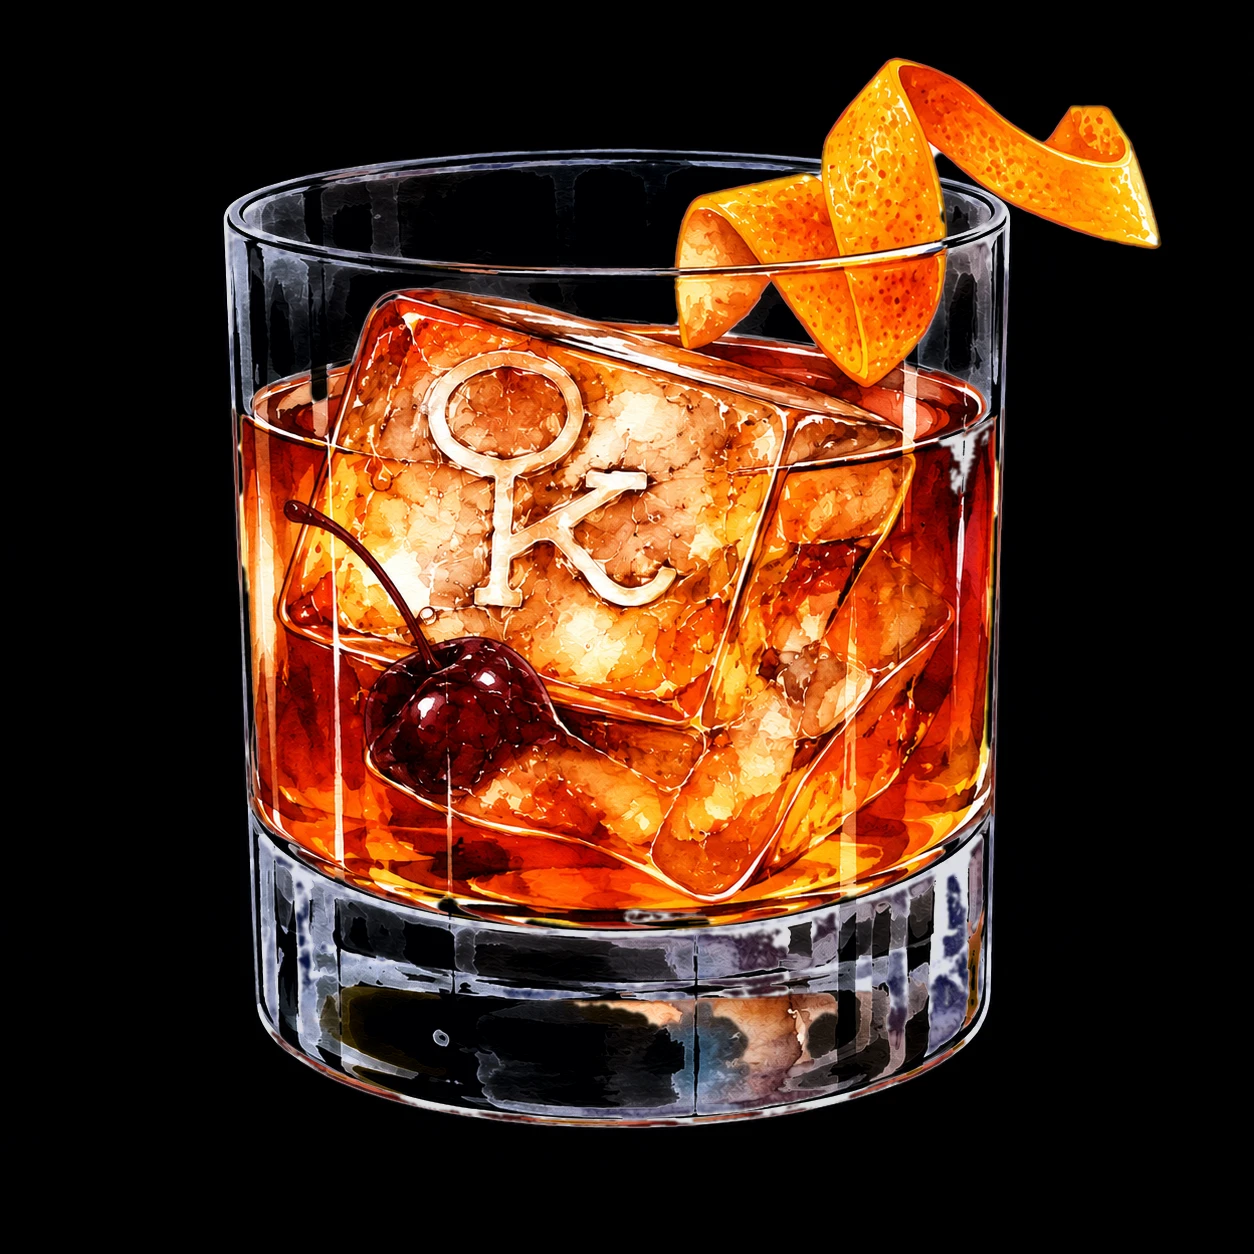
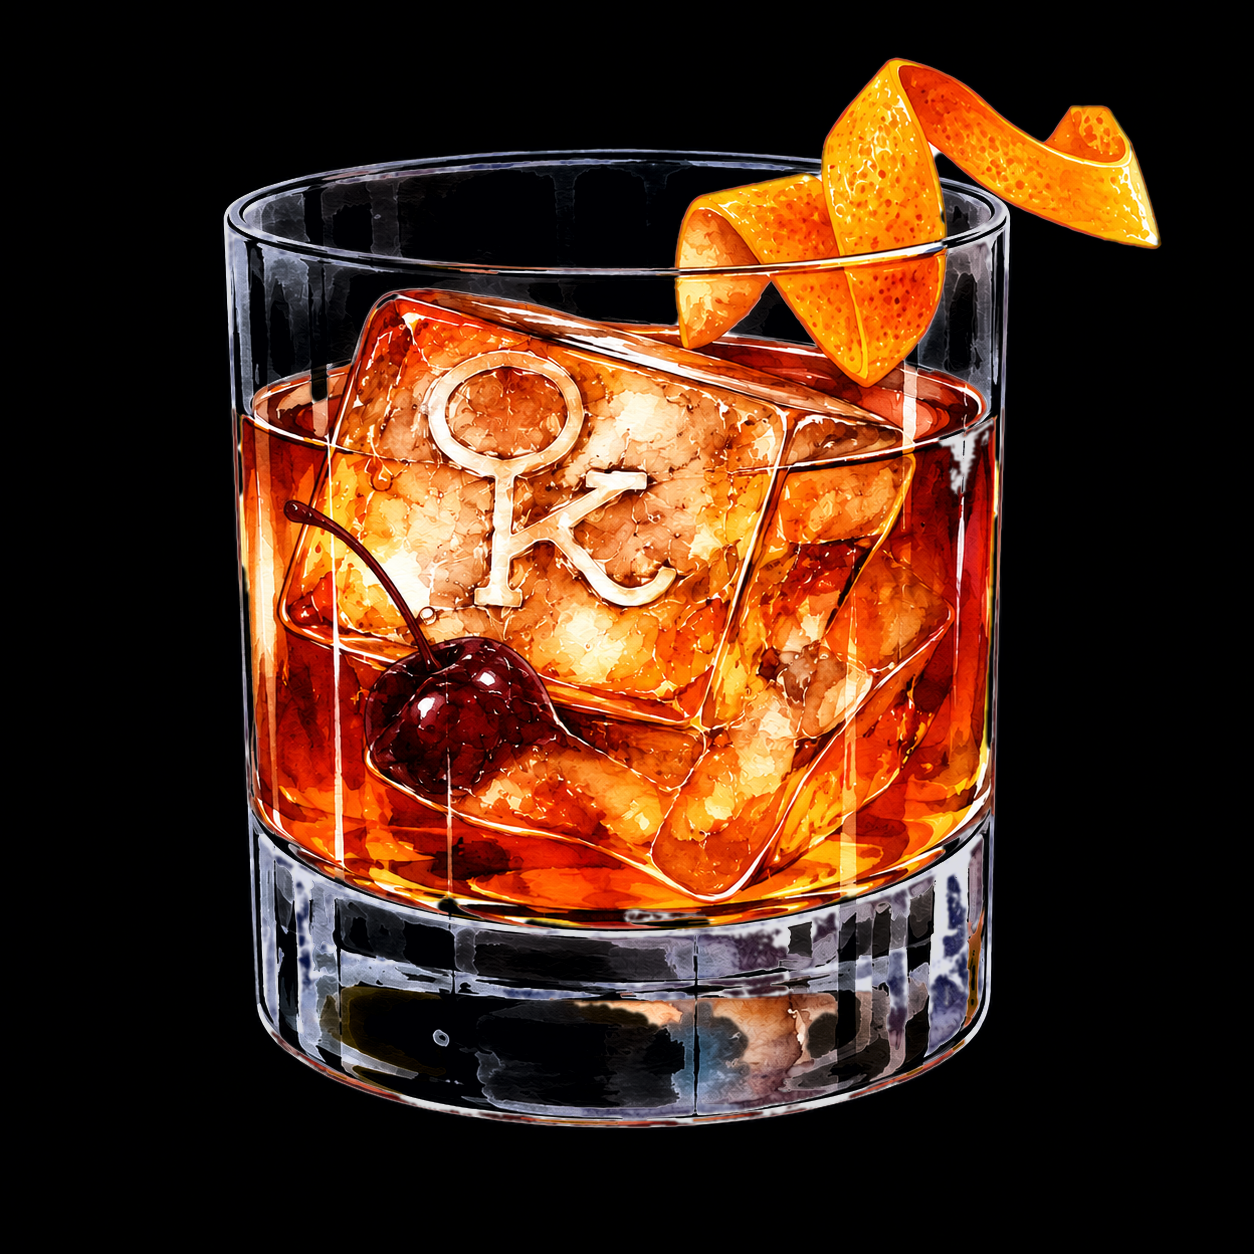
Cocktail of the Month art: original lossless PNG, near-lossless WebP
The first artwork arrived re-encoded as a lossy WebP, and both files
were made from that copy. Now:

- old-fashioned-black.png is Brady's original lossless file, byte for
  byte (1254x1254, 8-bit RGB, 1,785,438 bytes).
- old-fashioned-black.webp is regenerated from it as NEAR-LOSSLESS WebP
  (level 60, effort 6): every pixel within 2 levels of the original,
  869,384 bytes (was 264,022).

Lossy WebP was measured and rejected: it halves colour resolution, and
even q95 left the thin glass rim lines up to 78 levels off (edge PSNR
31 dB vs 46 dB near-lossless); at 4x the softening was visible. Fully
lossless would be 1.27MB for no visible gain.

Same size, so nothing else changes. Board re-verified in Chromium and
WebKit at 1920x1080 and 3840x2160: art 492px / 983px, overflow guard
silent, the art's border still identical to the board background (no
box edge). CLAUDE.md records how to regenerate it.

Claude-Session: https://claude.ai/code/session_01LTCTYDwpeMCxhtQ7KJeNqx

diff --git a/CLAUDE.md b/CLAUDE.md
@@ -608,8 +608,13 @@ a price edited at `/admin/menu` reaches the screen without anyone touching it.
     read publicly by `getCocktailOfMonth()` in `lib/queries.ts`. Rules and the
     default live in `lib/cocktail-of-month.ts`.
   - **Default, with nothing saved:** "Damn Good Old Fashioned" by name, with the
-    bundled art `public/assets/menu-board/old-fashioned-black.webp` (1254x1254;
-    the `.png` beside it is the same pixels). The default lives in code and is
+    bundled art `public/assets/menu-board/old-fashioned-black.webp` (1254x1254).
+    The `.png` beside it is the original lossless master; the `.webp` the board
+    loads is made from it with **near-lossless** WebP (level 60, every pixel
+    within 2 levels, 869KB). Not lossy: lossy WebP halves colour resolution and
+    smeared the thin glass rim lines (up to 78 levels off at q95). Regenerate
+    it from the PNG the same way: sharp `webp({ nearLossless: true, quality: 60,
+    effort: 6 })`. The default lives in code and is
     never written to the database. Its fallback description is used only if the
     drink's own is empty.
   - **Fallback:** if the pick is hidden, deleted or no longer in Saloon
@@ -866,7 +871,7 @@ C:\Projects\ok-corral-site\
 │   └── assets\
 │       ├── wallet\                   # OK monogram for .pkpass (icon + logo, 1x/2x/3x)
 │       ├── posters\                  # dustin-gaspard.jpg + dustin-gaspard-qr.svg
-│       ├── menu-board\               # old-fashioned-black.webp/.png: default Cocktail of the Month art (on pure black)
+│       ├── menu-board\               # old-fashioned-black.png (lossless master) + .webp (near-lossless, what the board loads): default Cocktail of the Month art, on pure black
 │       └── gallery\                  # site photos + event poster thumbs
 └── src\
     ├── middleware.ts                 # gates /admin/* on the corral_admin cookie
